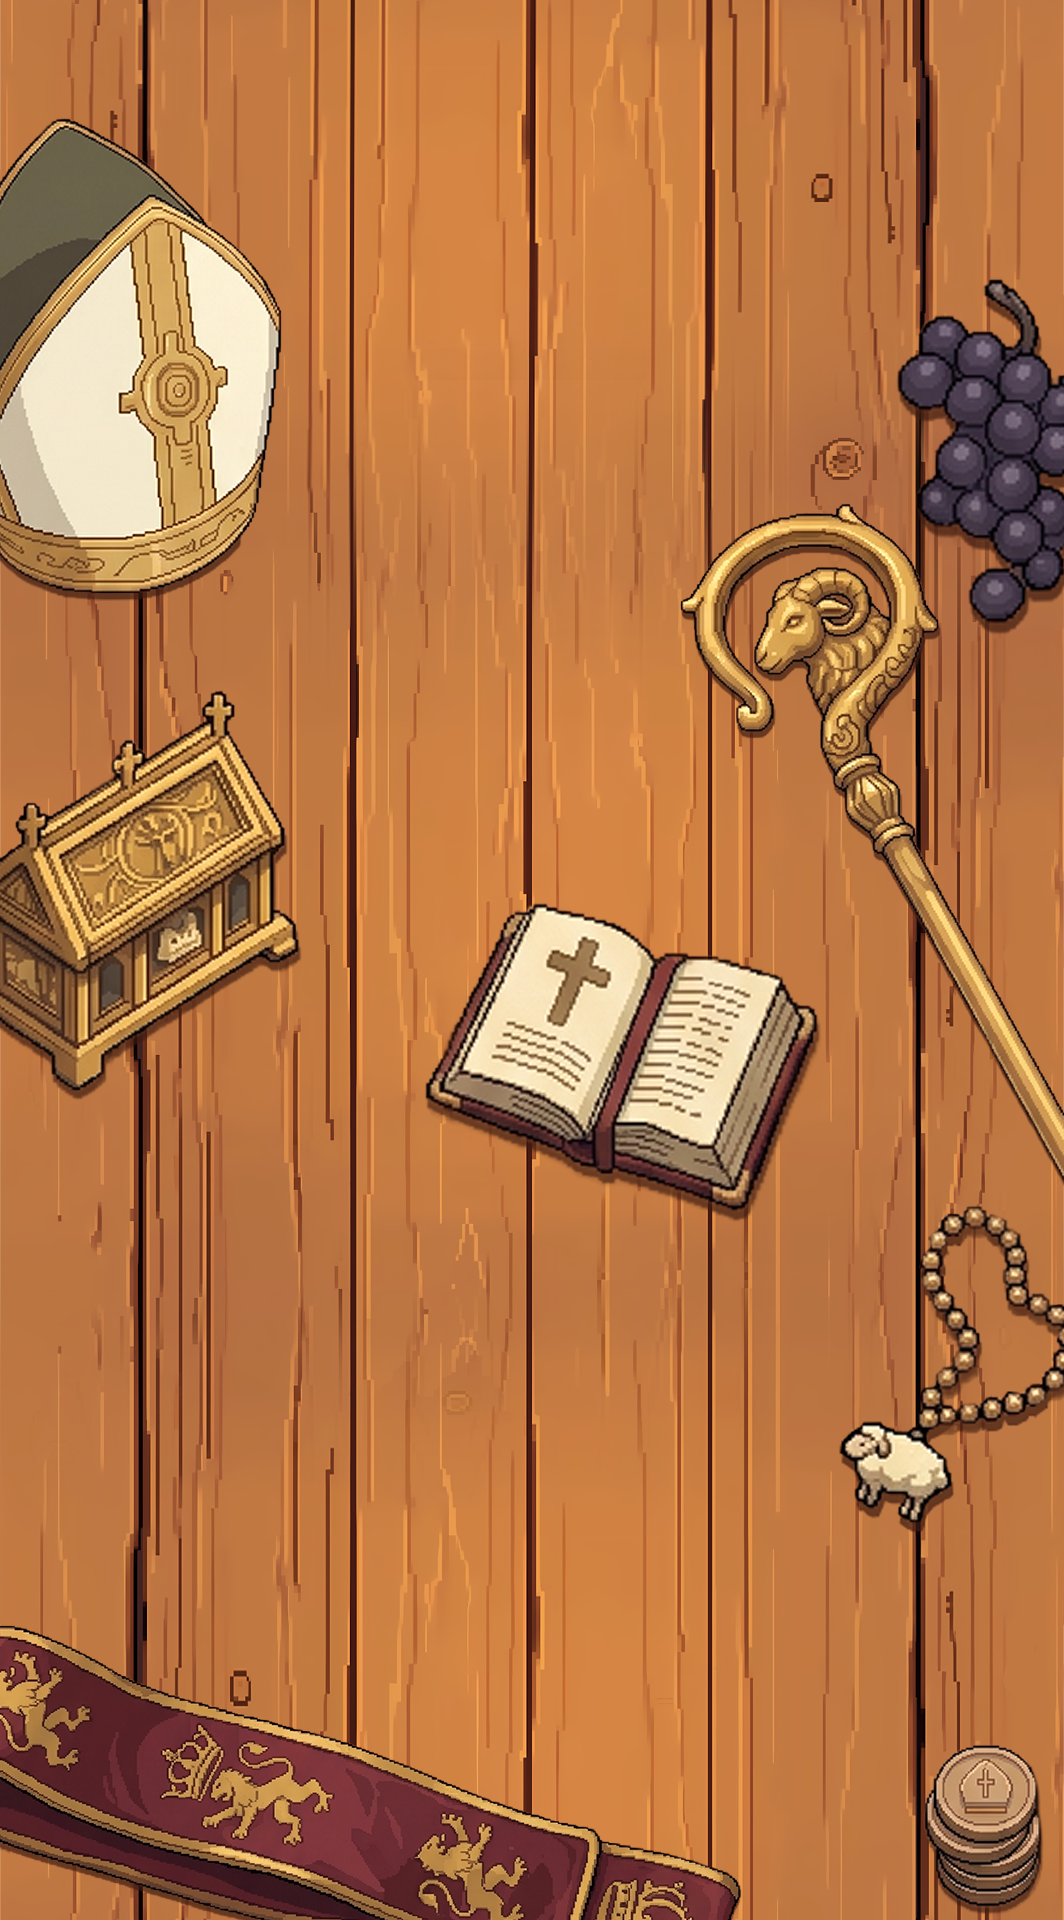
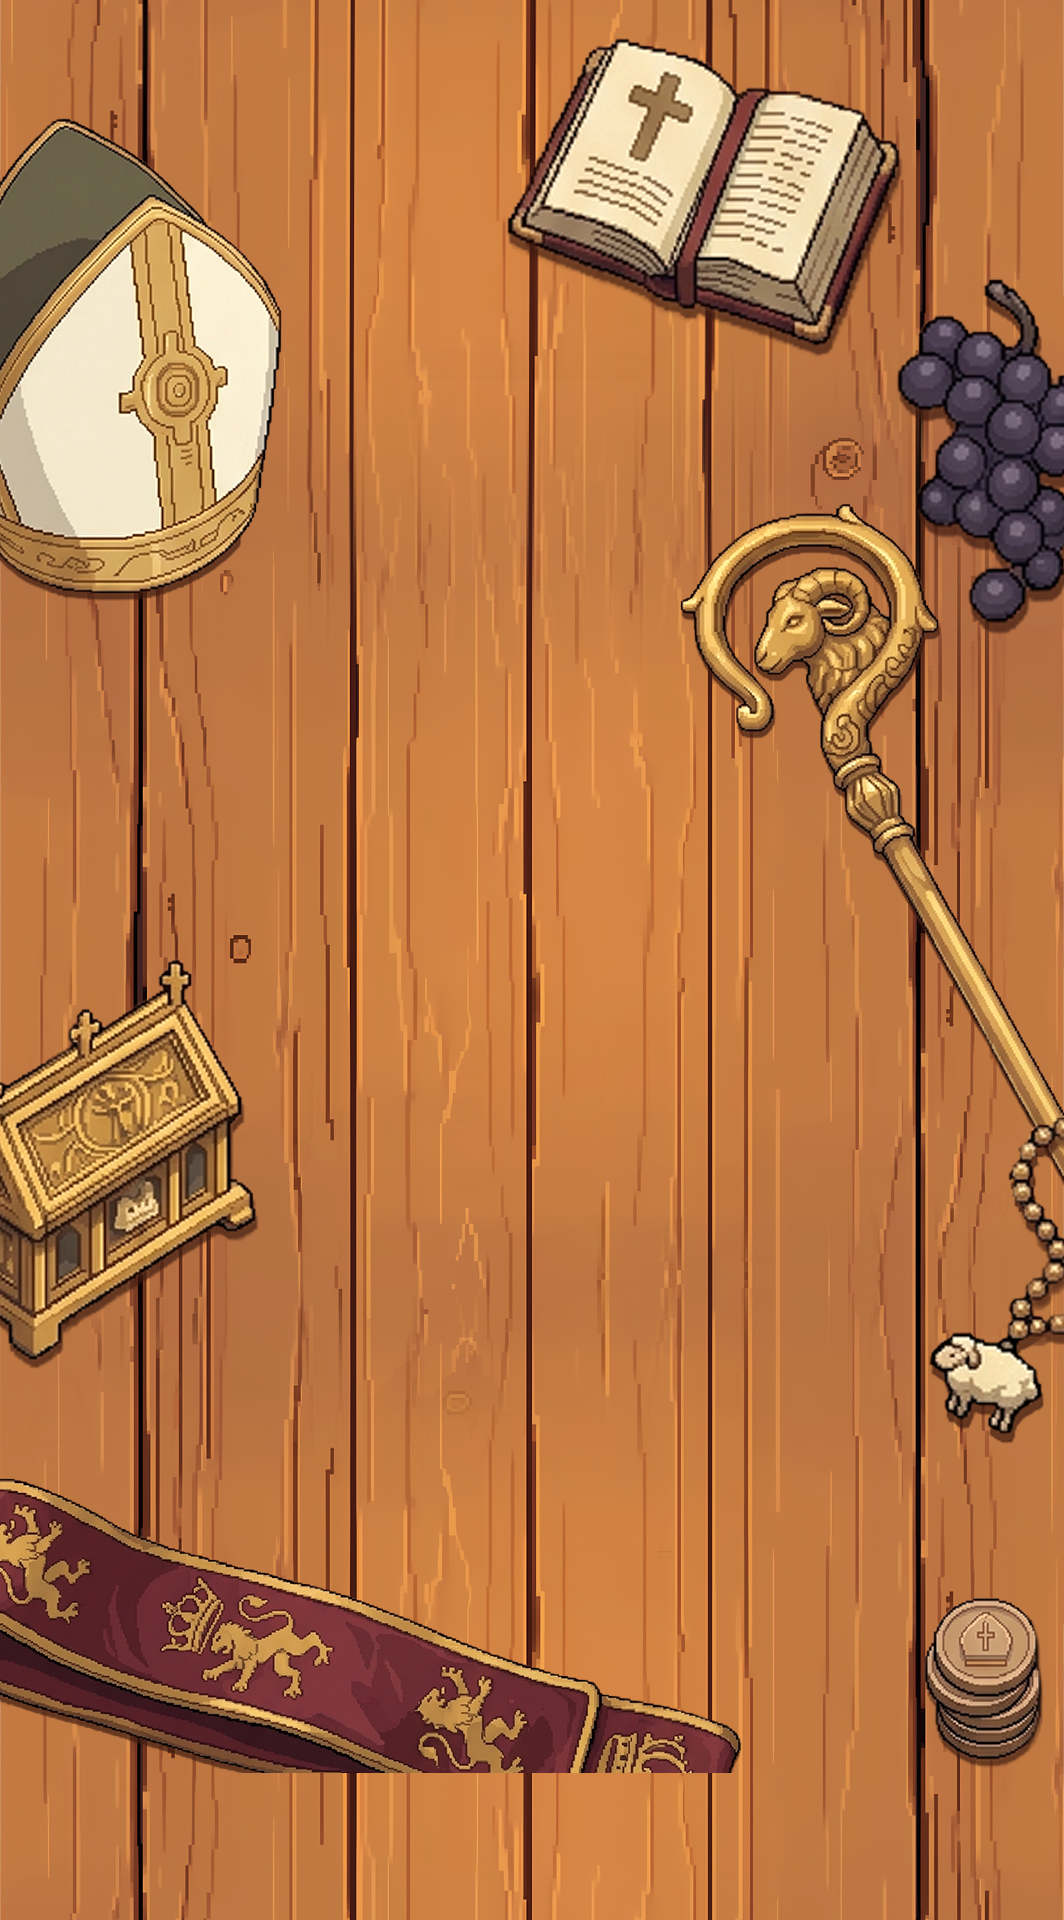
Bump ambrose_match.png cache (?v=1 -> ?v=2)

diff --git a/index.html b/index.html
@@ -2477,7 +2477,7 @@ body::before,body::after{display:none!important}
 #screen-match.boss-brutus::before{background-image:url('Environment_ART/brutus_match.png?v=1')}
 #screen-match.boss-aldric::before{background-image:url('Environment_ART/Aldric_match.png?v=2')}
 #screen-match.boss-whisper::before{background-image:url('Environment_ART/whisper_match.png?v=4')}
-#screen-match.boss-ambrose::before{background-image:url('Environment_ART/ambrose_match.png?v=1')}
+#screen-match.boss-ambrose::before{background-image:url('Environment_ART/ambrose_match.png?v=2')}
 #screen-match::after{
   content:'';position:fixed;inset:0;z-index:-1;
   /* Brownish vignette: top and bottom edges darken to ~50%, middle stays

diff --git a/sw.js b/sw.js
@@ -1,4 +1,4 @@
-const CACHE_NAME = 'gambit-v254';
+const CACHE_NAME = 'gambit-v255';
 const ASSETS = [
   './',
   './index.html',
